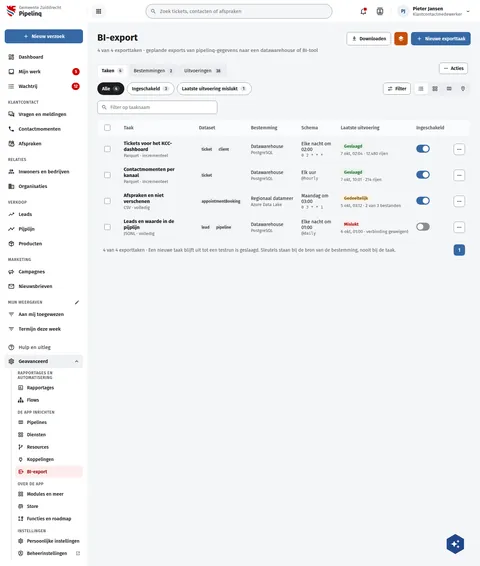
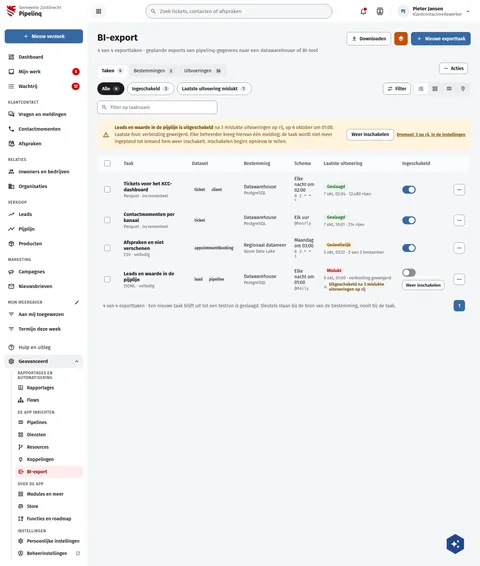
feat(screens): PqBiExport draws a job switched off after repeated failures, with Switch on again
Row auto-failure-alerts (exports-switch-off-after-repeated-failure, REQ-EFS-001 to 004): the failed job carries the reason under its last run, its switch is off with Weer inschakelen beside it, and a strip above the table repeats the one notification administrators got (job, failed runs, last error), that the job is not scheduled, and links to the threshold in the settings. The capability note lists the row; the English catalogue carries the new strings and drops five keys no longer on the board.

Assisted-by: ClaudeCode:claude-fable-5-1

diff --git a/preview/screens/boards/PqBiExport.html b/preview/screens/boards/PqBiExport.html
@@ -285,6 +285,14 @@ a{color:var(--sc-primary, #3669a5)}a:hover{color:var(--sc-primary-deep, #234a78)
             <input id="pqbiexport-search" type="search" placeholder="Filter op taaknaam" style="width: 100%; height: 40px; box-sizing: border-box; padding: 0 12px 0 38px; border: 1px solid var(--sc-work-field, #828a95); border-radius: 8px; background: #ffffff; font: 400 14px var(--sc-font, 'Fira Sans'), sans-serif; color: var(--sc-work-ink, #1b1c1d)">
           </form>
         </div>
+        <section aria-label="Uitgeschakelde taak" style="display: flex; flex-wrap: wrap; gap: 12px 16px; align-items: center; padding: 14px 16px; border-radius: 12px; background: #fff4de; color: #7a4f00; font-size: 14px">
+          <svg width="20" height="20" viewbox="0 0 24 24" fill="currentColor" aria-hidden="true" style="flex: none"><path d="M12,2L1,21H23M12,6L19.53,19H4.47M11,10V14H13V10M11,16V18H13V16"></path></svg>
+          <span style="flex: 1 1 420px; line-height: 1.5"><strong>Leads en waarde in de pijplijn is uitgeschakeld</strong> na 3 mislukte uitvoeringen op rij, op 6 oktober om 01:00. Laatste fout: verbinding geweigerd. Elke beheerder kreeg hiervan één melding; de taak wordt niet meer ingepland tot iemand hem weer inschakelt. Inschakelen begint opnieuw te tellen.</span>
+          <span style="display: flex; flex-wrap: wrap; gap: 8px; align-items: center">
+            <button type="button" style="height: 34px; padding: 0 14px; border: 1px solid var(--sc-work-field, #828a95); border-radius: 8px; background: #ffffff; font: 600 14px var(--sc-font, 'Fira Sans'), sans-serif; color: var(--sc-work-ink, #1b1c1d); white-space: nowrap">Weer inschakelen</button>
+            <a href="PqBeheer.html" style="font-size: 13px; font-weight: 600; color: #7a4f00">Drempel: 3 op rij, in de instellingen</a>
+          </span>
+        </section>
         <div style="border: 1px solid var(--sc-work-line, #e4e6ea); border-radius: 10px; overflow: hidden">
           <div style="overflow-x: auto">
             <table style="border-collapse: collapse; width: 100%; min-width: 900px; font-size: 14px">
@@ -308,7 +316,7 @@ a{color:var(--sc-primary, #3669a5)}a:hover{color:var(--sc-primary-deep, #234a78)
                     <td style="padding: 12px"><span style="display: flex; flex-direction: column; gap: 2px"><span style="white-space: nowrap">Datawarehouse</span><span style="font-size: 13px; color: var(--sc-work-muted, #5e6168)">PostgreSQL</span></span></td>
                     <td style="padding: 12px"><span style="display: flex; flex-direction: column; gap: 2px"><span>Elke nacht om 02:00</span><code style="font-size: 12px; color: var(--sc-work-muted, #5e6168)">0 2 * * *</code></span></td>
                     <td style="padding: 12px"><span style="display: flex; flex-direction: column; gap: 4px; align-items: flex-start"><span style="display: inline-block; padding: 3px 10px; border-radius: 12px; font-size: 13px; font-weight: 600; white-space: nowrap; background: #e7f3ea; color: #1e6b2a">Geslaagd</span><span style="font-size: 13px; color: var(--sc-work-muted, #5e6168); white-space: nowrap">7 okt, 02:04 · 12.480 rijen</span></span></td>
-                    <td style="padding: 12px"><button type="button" role="switch" aria-checked="true" aria-label="Ingeschakeld: Tickets voor het KCC-dashboard" style="position: relative; width: 40px; height: 24px; border: 6px solid transparent; background-clip: padding-box; box-sizing: content-box; margin: -6px; padding: 0; border-radius: 18px; cursor: pointer; background-color: var(--sc-primary, #3669a5)"><span style="position: absolute; top: 3px; width: 18px; height: 18px; border-radius: 9px; background: #ffffff; left: 19px"></span></button></td>
+                    <td style="padding: 12px"><span style="display: flex; flex-direction: column; gap: 10px; align-items: flex-start"><button type="button" role="switch" aria-checked="true" aria-label="Ingeschakeld: Tickets voor het KCC-dashboard" style="position: relative; width: 40px; height: 24px; border: 6px solid transparent; background-clip: padding-box; box-sizing: content-box; margin: -6px; padding: 0; border-radius: 18px; cursor: pointer; background-color: var(--sc-primary, #3669a5)"><span style="position: absolute; top: 3px; width: 18px; height: 18px; border-radius: 9px; background: #ffffff; left: 19px"></span></button></span></td>
                     
                   <td style="padding: 14px 16px; text-align: right"><button type="button" aria-label="Actions for Tickets voor het KCC-dashboard" style="width: 34px; height: 34px; display: inline-flex; align-items: center; justify-content: center; border: 1px solid var(--sc-work-field, #828a95); border-radius: 8px; background: #ffffff; color: var(--sc-work-text, #3d4047)"><svg width="18" height="18" viewbox="0 0 24 24" fill="currentColor" aria-hidden="true"><path d="M16,12A2,2 0 0,1 18,10A2,2 0 0,1 20,12A2,2 0 0,1 18,14A2,2 0 0,1 16,12M10,12A2,2 0 0,1 12,10A2,2 0 0,1 14,12A2,2 0 0,1 12,14A2,2 0 0,1 10,12M4,12A2,2 0 0,1 6,10A2,2 0 0,1 8,12A2,2 0 0,1 6,14A2,2 0 0,1 4,12Z"></path></svg></button></td></tr>
                 
@@ -318,7 +326,7 @@ a{color:var(--sc-primary, #3669a5)}a:hover{color:var(--sc-primary-deep, #234a78)
                     <td style="padding: 12px"><span style="display: flex; flex-direction: column; gap: 2px"><span style="white-space: nowrap">Datawarehouse</span><span style="font-size: 13px; color: var(--sc-work-muted, #5e6168)">PostgreSQL</span></span></td>
                     <td style="padding: 12px"><span style="display: flex; flex-direction: column; gap: 2px"><span>Elk uur</span><code style="font-size: 12px; color: var(--sc-work-muted, #5e6168)">@hourly</code></span></td>
                     <td style="padding: 12px"><span style="display: flex; flex-direction: column; gap: 4px; align-items: flex-start"><span style="display: inline-block; padding: 3px 10px; border-radius: 12px; font-size: 13px; font-weight: 600; white-space: nowrap; background: #e7f3ea; color: #1e6b2a">Geslaagd</span><span style="font-size: 13px; color: var(--sc-work-muted, #5e6168); white-space: nowrap">7 okt, 10:01 · 214 rijen</span></span></td>
-                    <td style="padding: 12px"><button type="button" role="switch" aria-checked="true" aria-label="Ingeschakeld: Contactmomenten per kanaal" style="position: relative; width: 40px; height: 24px; border: 6px solid transparent; background-clip: padding-box; box-sizing: content-box; margin: -6px; padding: 0; border-radius: 18px; cursor: pointer; background-color: var(--sc-primary, #3669a5)"><span style="position: absolute; top: 3px; width: 18px; height: 18px; border-radius: 9px; background: #ffffff; left: 19px"></span></button></td>
+                    <td style="padding: 12px"><span style="display: flex; flex-direction: column; gap: 10px; align-items: flex-start"><button type="button" role="switch" aria-checked="true" aria-label="Ingeschakeld: Contactmomenten per kanaal" style="position: relative; width: 40px; height: 24px; border: 6px solid transparent; background-clip: padding-box; box-sizing: content-box; margin: -6px; padding: 0; border-radius: 18px; cursor: pointer; background-color: var(--sc-primary, #3669a5)"><span style="position: absolute; top: 3px; width: 18px; height: 18px; border-radius: 9px; background: #ffffff; left: 19px"></span></button></span></td>
                     
                   <td style="padding: 14px 16px; text-align: right"><button type="button" aria-label="Actions for Contactmomenten per kanaal" style="width: 34px; height: 34px; display: inline-flex; align-items: center; justify-content: center; border: 1px solid var(--sc-work-field, #828a95); border-radius: 8px; background: #ffffff; color: var(--sc-work-text, #3d4047)"><svg width="18" height="18" viewbox="0 0 24 24" fill="currentColor" aria-hidden="true"><path d="M16,12A2,2 0 0,1 18,10A2,2 0 0,1 20,12A2,2 0 0,1 18,14A2,2 0 0,1 16,12M10,12A2,2 0 0,1 12,10A2,2 0 0,1 14,12A2,2 0 0,1 12,14A2,2 0 0,1 10,12M4,12A2,2 0 0,1 6,10A2,2 0 0,1 8,12A2,2 0 0,1 6,14A2,2 0 0,1 4,12Z"></path></svg></button></td></tr>
                 
@@ -328,7 +336,7 @@ a{color:var(--sc-primary, #3669a5)}a:hover{color:var(--sc-primary-deep, #234a78)
                     <td style="padding: 12px"><span style="display: flex; flex-direction: column; gap: 2px"><span style="white-space: nowrap">Regionaal datameer</span><span style="font-size: 13px; color: var(--sc-work-muted, #5e6168)">Azure Data Lake</span></span></td>
                     <td style="padding: 12px"><span style="display: flex; flex-direction: column; gap: 2px"><span>Maandag om 03:00</span><code style="font-size: 12px; color: var(--sc-work-muted, #5e6168)">0 3 * * 1</code></span></td>
                     <td style="padding: 12px"><span style="display: flex; flex-direction: column; gap: 4px; align-items: flex-start"><span style="display: inline-block; padding: 3px 10px; border-radius: 12px; font-size: 13px; font-weight: 600; white-space: nowrap; background: #fff4de; color: #7a4f00">Gedeeltelijk</span><span style="font-size: 13px; color: var(--sc-work-muted, #5e6168); white-space: nowrap">5 okt, 03:12 · 2 van 3 bestanden</span></span></td>
-                    <td style="padding: 12px"><button type="button" role="switch" aria-checked="true" aria-label="Ingeschakeld: Afspraken en niet verschenen" style="position: relative; width: 40px; height: 24px; border: 6px solid transparent; background-clip: padding-box; box-sizing: content-box; margin: -6px; padding: 0; border-radius: 18px; cursor: pointer; background-color: var(--sc-primary, #3669a5)"><span style="position: absolute; top: 3px; width: 18px; height: 18px; border-radius: 9px; background: #ffffff; left: 19px"></span></button></td>
+                    <td style="padding: 12px"><span style="display: flex; flex-direction: column; gap: 10px; align-items: flex-start"><button type="button" role="switch" aria-checked="true" aria-label="Ingeschakeld: Afspraken en niet verschenen" style="position: relative; width: 40px; height: 24px; border: 6px solid transparent; background-clip: padding-box; box-sizing: content-box; margin: -6px; padding: 0; border-radius: 18px; cursor: pointer; background-color: var(--sc-primary, #3669a5)"><span style="position: absolute; top: 3px; width: 18px; height: 18px; border-radius: 9px; background: #ffffff; left: 19px"></span></button></span></td>
                     
                   <td style="padding: 14px 16px; text-align: right"><button type="button" aria-label="Actions for Afspraken en niet verschenen" style="width: 34px; height: 34px; display: inline-flex; align-items: center; justify-content: center; border: 1px solid var(--sc-work-field, #828a95); border-radius: 8px; background: #ffffff; color: var(--sc-work-text, #3d4047)"><svg width="18" height="18" viewbox="0 0 24 24" fill="currentColor" aria-hidden="true"><path d="M16,12A2,2 0 0,1 18,10A2,2 0 0,1 20,12A2,2 0 0,1 18,14A2,2 0 0,1 16,12M10,12A2,2 0 0,1 12,10A2,2 0 0,1 14,12A2,2 0 0,1 12,14A2,2 0 0,1 10,12M4,12A2,2 0 0,1 6,10A2,2 0 0,1 8,12A2,2 0 0,1 6,14A2,2 0 0,1 4,12Z"></path></svg></button></td></tr>
                 
@@ -337,8 +345,8 @@ a{color:var(--sc-primary, #3669a5)}a:hover{color:var(--sc-primary-deep, #234a78)
                     <td style="padding: 12px"><span style="display: flex; flex-wrap: wrap; gap: 4px"><span style="display: inline-block; padding: 2px 8px; border-radius: 10px; font-size: 12px; font-weight: 600; background: var(--sc-work-chip, #f0f1f3); color: var(--sc-work-text, #3d4047); white-space: nowrap">lead</span><span style="display: inline-block; padding: 2px 8px; border-radius: 10px; font-size: 12px; font-weight: 600; background: var(--sc-work-chip, #f0f1f3); color: var(--sc-work-text, #3d4047); white-space: nowrap">pipeline</span></span></td>
                     <td style="padding: 12px"><span style="display: flex; flex-direction: column; gap: 2px"><span style="white-space: nowrap">Datawarehouse</span><span style="font-size: 13px; color: var(--sc-work-muted, #5e6168)">PostgreSQL</span></span></td>
                     <td style="padding: 12px"><span style="display: flex; flex-direction: column; gap: 2px"><span>Elke nacht om 01:00</span><code style="font-size: 12px; color: var(--sc-work-muted, #5e6168)">@daily</code></span></td>
-                    <td style="padding: 12px"><span style="display: flex; flex-direction: column; gap: 4px; align-items: flex-start"><span style="display: inline-block; padding: 3px 10px; border-radius: 12px; font-size: 13px; font-weight: 600; white-space: nowrap; background: #fcedec; color: var(--sc-accent-deep, #a30000)">Mislukt</span><span style="font-size: 13px; color: var(--sc-work-muted, #5e6168); white-space: nowrap">6 okt, 01:00 · verbinding geweigerd</span></span></td>
-                    <td style="padding: 12px"><button type="button" role="switch" aria-checked="false" aria-label="Ingeschakeld: Leads en waarde in de pijplijn" style="position: relative; width: 40px; height: 24px; border: 6px solid transparent; background-clip: padding-box; box-sizing: content-box; margin: -6px; padding: 0; border-radius: 18px; cursor: pointer; background-color: #8a8d93"><span style="position: absolute; top: 3px; width: 18px; height: 18px; border-radius: 9px; background: #ffffff; left: 3px"></span></button></td>
+                    <td style="padding: 12px"><span style="display: flex; flex-direction: column; gap: 4px; align-items: flex-start"><span style="display: inline-block; padding: 3px 10px; border-radius: 12px; font-size: 13px; font-weight: 600; white-space: nowrap; background: #fcedec; color: var(--sc-accent-deep, #a30000)">Mislukt</span><span style="font-size: 13px; color: var(--sc-work-muted, #5e6168); white-space: nowrap">6 okt, 01:00 · verbinding geweigerd</span><span style="display: inline-flex; align-items: center; gap: 6px; font-size: 13px; font-weight: 600; color: #7a4f00"><svg width="14" height="14" viewbox="0 0 24 24" fill="currentColor" aria-hidden="true"><path d="M12,2L1,21H23M12,6L19.53,19H4.47M11,10V14H13V10M11,16V18H13V16"></path></svg>Uitgeschakeld na 3 mislukte uitvoeringen op rij</span></span></td>
+                    <td style="padding: 12px"><span style="display: flex; flex-direction: column; gap: 10px; align-items: flex-start"><button type="button" role="switch" aria-checked="false" aria-label="Ingeschakeld: Leads en waarde in de pijplijn" style="position: relative; width: 40px; height: 24px; border: 6px solid transparent; background-clip: padding-box; box-sizing: content-box; margin: -6px; padding: 0; border-radius: 18px; cursor: pointer; background-color: #8a8d93"><span style="position: absolute; top: 3px; width: 18px; height: 18px; border-radius: 9px; background: #ffffff; left: 3px"></span></button><button type="button" style="height: 30px; padding: 0 10px; border: 1px solid var(--sc-work-field, #828a95); border-radius: 8px; background: #ffffff; font: 600 13px var(--sc-font, 'Fira Sans'), sans-serif; color: var(--sc-work-ink, #1b1c1d); white-space: nowrap">Weer inschakelen</button></span></td>
                     
                   <td style="padding: 14px 16px; text-align: right"><button type="button" aria-label="Actions for Leads en waarde in de pijplijn" style="width: 34px; height: 34px; display: inline-flex; align-items: center; justify-content: center; border: 1px solid var(--sc-work-field, #828a95); border-radius: 8px; background: #ffffff; color: var(--sc-work-text, #3d4047)"><svg width="18" height="18" viewbox="0 0 24 24" fill="currentColor" aria-hidden="true"><path d="M16,12A2,2 0 0,1 18,10A2,2 0 0,1 20,12A2,2 0 0,1 18,14A2,2 0 0,1 16,12M10,12A2,2 0 0,1 12,10A2,2 0 0,1 14,12A2,2 0 0,1 12,14A2,2 0 0,1 10,12M4,12A2,2 0 0,1 6,10A2,2 0 0,1 8,12A2,2 0 0,1 6,14A2,2 0 0,1 4,12Z"></path></svg></button></td></tr>
                 

diff --git a/screens-src/zuiddrecht/PqBiExport.dc.html b/screens-src/zuiddrecht/PqBiExport.dc.html
@@ -63,6 +63,14 @@ a{color:#3669a5}a:hover{color:#234a78}
             <input id="pqbiexport-search" type="search" placeholder="Filter op taaknaam" style="width: 100%; height: 40px; box-sizing: border-box; padding: 0 12px 0 38px; border: 1px solid #828a95; border-radius: 8px; background: #ffffff; font: 400 14px 'Fira Sans', sans-serif; color: #1b1c1d">
           </form>
         </div>
+        <section aria-label="Uitgeschakelde taak" style="display: flex; flex-wrap: wrap; gap: 12px 16px; align-items: center; padding: 14px 16px; border-radius: 12px; background: #fff4de; color: #7a4f00; font-size: 14px">
+          <svg width="20" height="20" viewBox="0 0 24 24" fill="currentColor" aria-hidden="true" style="flex: none"><path d="M12,2L1,21H23M12,6L19.53,19H4.47M11,10V14H13V10M11,16V18H13V16"></path></svg>
+          <span style="flex: 1 1 420px; line-height: 1.5"><strong>Leads en waarde in de pijplijn is uitgeschakeld</strong> na 3 mislukte uitvoeringen op rij, op 6 oktober om 01:00. Laatste fout: verbinding geweigerd. Elke beheerder kreeg hiervan één melding; de taak wordt niet meer ingepland tot iemand hem weer inschakelt. Inschakelen begint opnieuw te tellen.</span>
+          <span style="display: flex; flex-wrap: wrap; gap: 8px; align-items: center">
+            <button type="button" style="height: 34px; padding: 0 14px; border: 1px solid #828a95; border-radius: 8px; background: #ffffff; font: 600 14px 'Fira Sans', sans-serif; color: #1b1c1d; white-space: nowrap">Weer inschakelen</button>
+            <a href="PqBeheer.dc.html" style="font-size: 13px; font-weight: 600; color: #7a4f00">Drempel: 3 op rij, in de instellingen</a>
+          </span>
+        </section>
         <div style="border: 1px solid #e4e6ea; border-radius: 10px; overflow: hidden">
           <div style="overflow-x: auto">
             <table style="border-collapse: collapse; width: 100%; min-width: 900px; font-size: 14px">
@@ -85,8 +93,8 @@ a{color:#3669a5}a:hover{color:#234a78}
                     <td style="padding: 12px"><span style="display: flex; flex-wrap: wrap; gap: 4px"><sc-for list="{{ r.data }}" as="d" hint-placeholder-count="2"><span style="display: inline-block; padding: 2px 8px; border-radius: 10px; font-size: 12px; font-weight: 600; background: #f0f1f3; color: #3d4047; white-space: nowrap">{{ d }}</span></sc-for></span></td>
                     <td style="padding: 12px"><span style="display: flex; flex-direction: column; gap: 2px"><span style="white-space: nowrap">{{ r.dest }}</span><span style="font-size: 13px; color: #5e6168">{{ r.destType }}</span></span></td>
                     <td style="padding: 12px"><span style="display: flex; flex-direction: column; gap: 2px"><span>{{ r.sched }}</span><code style="font-size: 12px; color: #5e6168">{{ r.cron }}</code></span></td>
-                    <td style="padding: 12px"><span style="display: flex; flex-direction: column; gap: 4px; align-items: flex-start"><span style="{{ r.runStyle }}">{{ r.run }}</span><span style="font-size: 13px; color: #5e6168; white-space: nowrap">{{ r.runAt }}</span></span></td>
-                    <td style="padding: 12px"><button type="button" role="switch" aria-checked="{{ r.checked }}" aria-label="{{ r.switchLabel }}" style="{{ r.track }}"><span style="{{ r.knob }}"></span></button></td>
+                    <td style="padding: 12px"><span style="display: flex; flex-direction: column; gap: 4px; align-items: flex-start"><span style="{{ r.runStyle }}">{{ r.run }}</span><span style="font-size: 13px; color: #5e6168; white-space: nowrap">{{ r.runAt }}</span><sc-if value="{{ r.off }}" hint-placeholder-val="{{ false }}"><span style="display: inline-flex; align-items: center; gap: 6px; font-size: 13px; font-weight: 600; color: #7a4f00"><svg width="14" height="14" viewBox="0 0 24 24" fill="currentColor" aria-hidden="true"><path d="M12,2L1,21H23M12,6L19.53,19H4.47M11,10V14H13V10M11,16V18H13V16"></path></svg>Uitgeschakeld na 3 mislukte uitvoeringen op rij</span></sc-if></span></td>
+                    <td style="padding: 12px"><span style="display: flex; flex-direction: column; gap: 10px; align-items: flex-start"><button type="button" role="switch" aria-checked="{{ r.checked }}" aria-label="{{ r.switchLabel }}" style="{{ r.track }}"><span style="{{ r.knob }}"></span></button><sc-if value="{{ r.off }}" hint-placeholder-val="{{ false }}"><button type="button" style="height: 30px; padding: 0 10px; border: 1px solid #828a95; border-radius: 8px; background: #ffffff; font: 600 13px 'Fira Sans', sans-serif; color: #1b1c1d; white-space: nowrap">Weer inschakelen</button></sc-if></span></td>
                     
                   <td style="padding: 14px 16px; text-align: right"><button type="button" aria-label="Actions for {{ r.name }}" style="width: 34px; height: 34px; display: inline-flex; align-items: center; justify-content: center; border: 1px solid #828a95; border-radius: 8px; background: #ffffff; color: #3d4047"><svg width="18" height="18" viewBox="0 0 24 24" fill="currentColor" aria-hidden="true"><path d="M16,12A2,2 0 0,1 18,10A2,2 0 0,1 20,12A2,2 0 0,1 18,14A2,2 0 0,1 16,12M10,12A2,2 0 0,1 12,10A2,2 0 0,1 14,12A2,2 0 0,1 12,14A2,2 0 0,1 10,12M4,12A2,2 0 0,1 6,10A2,2 0 0,1 8,12A2,2 0 0,1 6,14A2,2 0 0,1 4,12Z"></path></svg></button></td></tr>
                 </sc-for>
@@ -132,7 +140,7 @@ class Component extends DCLogic {
       ['Afspraken en niet verschenen', 'CSV · volledig', ['appointmentBooking'], 'Regionaal datameer', 'Azure Data Lake', 'Maandag om 03:00', '0 3 * * 1', 'Gedeeltelijk', '5 okt, 03:12 · 2 van 3 bestanden', '12 okt, 03:00', true],
       ['Leads en waarde in de pijplijn', 'JSONL · volledig', ['lead', 'pipeline'], 'Datawarehouse', 'PostgreSQL', 'Elke nacht om 01:00', '@daily', 'Mislukt', '6 okt, 01:00 · verbinding geweigerd', 'Niet ingepland', false]
     ].map(([name, fmt, data, dest, destType, sched, cron, run, runAt, next, en]) => ({
-      name, fmt, data, dest, destType, sched, cron, run, runAt, next, runStyle: R[run], checked: en ? 'true' : 'false', switchLabel: 'Ingeschakeld: ' + name, testLabel: 'Testrun: ' + name,
+      name, fmt, data, dest, destType, sched, cron, run, runAt, next, runStyle: R[run], checked: en ? 'true' : 'false', off: !en, switchLabel: 'Ingeschakeld: ' + name, testLabel: 'Testrun: ' + name,
       track: 'position: relative; width: 40px; height: 24px; border: 6px solid transparent; background-clip: padding-box; box-sizing: content-box; margin: -6px; padding: 0; border-radius: 18px; cursor: pointer; background-color: ' + (en ? '#3669a5' : '#8a8d93'),
       knob: 'position: absolute; top: 3px; width: 18px; height: 18px; border-radius: 9px; background: #ffffff; left: ' + (en ? '19px' : '3px')
     }));
